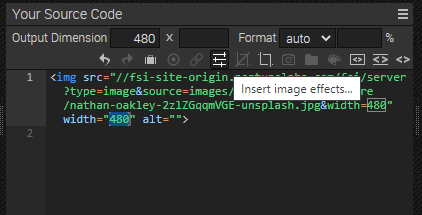
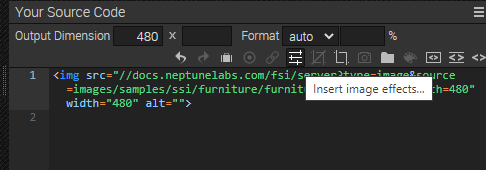
added new stock images/ changed readmes

Changed region(s): [[0.0, 0.0, 1.0, 0.6471], [0.0616, 0.6471, 0.0924, 0.7059]]

diff --git a/samples/frontpage/index.html b/samples/frontpage/index.html
@@ -25,16 +25,16 @@
 </header>
 
 <div class="position-absolute text-center mx-auto w-100 p-0">
-  <img src="{{{fsi.server}}}/{{{fsi.context}}}/server?type=image&source=images/samples/ssi/furniture/furniture-6048139.jpg&width=1903&rect=0,0.34173,0.95936,0.30668&effects=flip(horizontal)" width="1903"
-       srcset="{{{fsi.server}}}/{{{fsi.context}}}/server?type=image&source=images/samples/ssi/furniture/furniture-6048139.jpg&width=1903&rect=0,0.34173,0.95936,0.30668&effects=flip(horizontal),
-{{{fsi.server}}}/{{{fsi.context}}}/server?type=image&source=images/samples/ssi/furniture/furniture-6048139.jpg&width=3806&rect=0,0.34173,0.95936,0.30668&effects=flip(horizontal) 2x"
+  <img src="{{{fsi.server}}}/{{{fsi.context}}}/server?type=image&source=images/samples/ssi/furniture/house-6691124.jpg&width=1903&rect=0.01416,0.53388,0.75133,0.21963" width="1903"
+       srcset="{{{fsi.server}}}/{{{fsi.context}}}/server?type=image&source=images/samples/ssi/furniture/house-6691124.jpg&width=1903&rect=0.01416,0.53388,0.75133,0.21963,
+{{{fsi.server}}}/{{{fsi.context}}}/server?type=image&source=images/samples/ssi/furniture/house-6691124.jpg&width=3806&rect=0.01416,0.53388,0.75133,0.21963 2x"
        alt="">
 </div>
 <div class="row position-relative text-center w-100">
   <div class="col-md-4 col-sm-2 pb-lg-5 my-lg-5">
     <img class="sale-badge" src="{{{fsi.server}}}/{{{fsi.context}}}/static/assets/samples/ssi/sale.svg" height="300">
   </div>
-  <div class="col-md-8 col-sm-10 pb-lg-5 my-lg-5 pb-sm-1">
+  <div class="col-md-8 col-sm-10 pt-lg-5 my-lg-5 pb-sm-1">
     <h2 class="display-5 fw-normal">Black Friday</h2>
     <p class="lead fw-normal">Check out our furniture sale.</p>
     <a class="btn btn-outline-custom" href="#">SHOP NOW</a>

diff --git a/samples/plp/index.html b/samples/plp/index.html
@@ -25,10 +25,10 @@
   </nav>
 </header>
 
-<div class="row position-relative text-center">
-  <img class="img-fluid" src="{{{fsi.server}}}/{{{fsi.context}}}/server?type=image&source=images/samples/ssi/furniture/furniture-6048139.jpg&width=1903&rect=0,0.51752,1,0.16939" width="1903"
-       srcset="{{{fsi.server}}}/{{{fsi.context}}}/server?type=image&source=images/samples/ssi/furniture/furniture-6048139.jpg&width=1903&rect=0,0.51752,1,0.16939,
-{{{fsi.server}}}/{{{fsi.context}}}/server?type=image&source=images/samples/ssi/furniture/furniture-6048139.jpg&width=3806&rect=0,0.51752,1,0.16939 2x"
+<div class="position-relative text-center">
+  <img class="img-fluid" src="{{{fsi.server}}}/{{{fsi.context}}}/server?type=image&source=images/samples/ssi/furniture/tv-cabinet-6185020.jpg&width=1903&rect=0.08146,0.53855,0.85105,0.21963" width="1903"
+       srcset="{{{fsi.server}}}/{{{fsi.context}}}/server?type=image&source=images/samples/ssi/furniture/tv-cabinet-6185020.jpg&width=1903&rect=0.08146,0.53855,0.85105,0.21963,
+{{{fsi.server}}}/{{{fsi.context}}}/server?type=image&source=images/samples/ssi/furniture/tv-cabinet-6185020.jpg&width=1903&rect=0.08146,0.53855,0.85105,0.21963 2x"
        alt=""></div>
 
 <main class="content mx-auto">

diff --git a/samples/pdp/README.md b/samples/pdp/README.md
@@ -4,51 +4,58 @@ This readme describes how the product detail page sample with *Single Source Ima
 The aim of the demo is to show how you can easily integrate different sizes and formats of an image by simply changing the Image URL.
 It also shows how static assets saved on FSI Server can be embedded.
 
-# Use images on the website
+# Switching images on the website
 
-While having an image or folder selected, you can see all possible publishing ways for the specific item by visting the Publish To Web tab.
-For this example, select the preset *Simple Image*:
-
-![Config Image](readme-pdp-1.png)
-
-Simple Image publishes the image with a simple <img> tag. Requires a single high resolution image. You can set the output dimensions and format (auto automatically chooses the best format for the browser used, or you can set WEBP, JPEG, PNG or GIF) as well as add various effects to the static image.
-
-![Config Image](readme-pdp-2.png)
-
-The *Source Code* section enables you to control the look of your image or viewer by setting the dimensions and format, as well as adding effects or crop options to it.
-In this area you also can see the source code for your selected publishing option which you can edit and copy to publish the images.
-
-You can then add the images to your site via image tag:
+The images are switched by adding a simple changeImage function to the image tags:
 
 ```html
-<img id="image" class="img-fluid" src="//docs.neptunelabs.com/fsi/server?type=image&amp;source=images/samples/ssi/furniture/nathan-oakley-o4s4AfTgOvg-unsplash.jpg&amp;width=940" width="940" alt="">
+  <div class="row pb-3">
+            <div class="col-4">
+              <img class="thumbnail img-fluid" onclick="changeImage('0')" src="docs.neptunelabs.com/server?type=image&source=images/samples/ssi/furniture/home-7531464.jpg&width=150" width="150"
+                   srcset="docs.neptunelabs.com/server?type=image&source=images/samples/ssi/furniture/home-7531464.jpg&width=150,
+docs.neptunelabs.com/server?type=image&source=images/samples/ssi/furniture/home-7531464.jpg&width=300 2x"
+                   alt="">
+
+            </div>
+            <div class="col-4" >
+              <img class="thumbnail img-fluid" onclick="changeImage('1')" src="docs.neptunelabs.com/server?type=image&source=images/samples/ssi/furniture/home-7531467.jpg&width=150" width="150"
+                                            srcset="docs.neptunelabs.com/server?type=image&source=images/samples/ssi/furniture/home-7531467.jpg&width=150,
+docs.neptunelabs.com/server?type=image&source=images/samples/ssi/furniture/home-7531467.jpg&width=300 2x"
+                                            alt="">
+
+            </div>
+            <div class="col-4" >
+              <img class="thumbnail img-fluid" onclick="changeImage('2')" src="docs.neptunelabs.com/server?type=image&source=images/samples/ssi/furniture/home-7531463.jpg&width=150" width="150"
+                   srcset="docs.neptunelabs.com/server?type=image&source=images/samples/ssi/furniture/home-7531463.jpg&width=150,
+docs.neptunelabs.com/server?type=image&source=images/samples/ssi/furniture/nhome-7531463.jpg&width=300 2x"
+                   alt="">
+
+            </div>
+          </div>
 ```
-You can change the width and/or height directly in the image tag, the image will scale accordingly.
-For example, the thumbnails on the left are much smaller:
 
-```html
-<img class="thumbnail img-fluid" onclick="changeImage('0')" src="//docs.neptunelabs.com/fsi/server?type=image&amp;source=images/samples/ssi/furniture/nathan-oakley-o4s4AfTgOvg-unsplash.jpg&amp;width=150&amp;rect=0.15187,0,0.84813,1" width="150" alt="">
+In the corresponding `pdp.js` this function is set:
+
+```js
+function changeImage(buttonID) {
+  let img
+  let curImage = document.getElementById('image')
+  switch (buttonID) {
+    case '0':
+      img = 'docs.neptunelabs.com/server?type=image&source=images/samples/ssi/furniture/home-7531464.jpg&width=940'
+      break
+    case '1':
+      img = 'docs.neptunelabs.com/server?type=image&source=images/samples/ssi/furniture/home-7531467.jpg&width=940'
+      break
+    case '2':
+      img = 'docs.neptunelabs.com/server?type=image&source=images/samples/ssi/furniture/home-7531463.jpg&width=940'
+      break
+    default:
+      img = 'docs.neptunelabs.com/server?type=image&source=images/samples/ssi/furniture/home-7531464.jpg&width=940'
+  }
+  curImage.src = img
+}
 ```
-# Adding a crop effect
-
-As you can see in the last image tag above, a crop effect was used.
-
-You can do this easily in the *Publish To Web* tab. While having selected *Simple Image* as preset,
-choose the crop icon in the Source Code toolbar.
-
-![Config Image](readme-pdp-4.png)
-
-In the modal, you can add the crop area to the image via drag & drop.
-Select OK as soon as you are finished.
-
-![Config Image](readme-pdp-5.png)
-
-The URL created will look like this:
-
-
-[https://docs.neptunelabs.com/fsi/server?type=image&source=images/samples/ssi/furniture/nathan-oakley-o4s4AfTgOvg-unsplash.jpg&width=480&rect=0.15187,0,0.84813,1](https://docs.neptunelabs.comp/fsi/server?type=image&source=images/samples/ssi/furniture/nathan-oakley-o4s4AfTgOvg-unsplash.jpg&width=480&rect=0.15187,0,0.84813,1)
-
-The *&rect=* part defines the area of the cropping.
 
 ## Testing with examples from  your own server
 

diff --git a/samples/plp/README.md b/samples/plp/README.md
@@ -4,27 +4,6 @@ This readme describes how the product listing page sample with *Single Source Im
 The aim of the demo is to show how you can easily integrate different sizes and formats of an image by simply changing the Image URL.
 It also shows how static assets saved on FSI Server can be embedded.
 
-# Use images on the website
-
-While having an image or folder selected, you can see all possible publishing ways for the specific item by visting the Publish To Web tab.
-For this example, select the preset *Simple Image*:
-
-![Config Image](readme-plp-1.png)
-
-Simple Image publishes the image with a simple <img> tag. Requires a single high resolution image. You can set the output dimensions and format (auto automatically chooses the best format for the browser used, or you can set WEBP, JPEG, PNG or GIF) as well as add various effects to the static image.
-
-![Config Image](readme-plp-2.png)
-
-The *Source Code* section enables you to control the look of your image or viewer by setting the dimensions and format, as well as adding effects or crop options to it.
-In this area you also can see the source code for your selected publishing option which you can edit and copy to publish the images.
-
-You can then add the images to your site via image tag:
-
-```html
- <img class="card-img-top img-fluid" src="//docs.neptunelabs.com/fsi/server?type=image&source=images/samples/ssi/furniture/nathan-oakley-boFO5uIUKUU-unsplash.jpg&width=283" alt="" width="283">
-```
-You can change the width and/or height directly in the image tag, the image will scale accordingly.
-
 # Adding a crop effect
 
 As you can see in the last image tag above, a crop effect was used.
@@ -32,44 +11,19 @@ As you can see in the last image tag above, a crop effect was used.
 You can do this easily in the *Publish To Web* tab. While having selected *Simple Image* as preset,
 choose the crop icon in the Source Code toolbar.
 
-![Config Image](readme-plp-3.png)
+![Config Image](../plp/readme-pdp-4.png)
 
 In the modal, you can add the crop area to the image via drag & drop.
 Select OK as soon as you are finished.
 
-![Config Image](readme-plp-4.png)
+![Config Image](../plp/readme-pdp-5.png)
 
 The URL created will look like this:
 
 
-[https://docs.neptunelabs.com/fsi/server?type=image&source=images/samples/ssi/furniture/nathan-oakley-2zlZGqqmVGE-unsplash.jpg&width=1879&rect=0,0.41576,1,0.17255](https://docs.neptunelabs.comp/fsi/server?type=image&source=images/samples/ssi/furniture/nathan-oakley-2zlZGqqmVGE-unsplash.jpg&width=1879&rect=0,0.41576,1,0.17255)
+[https://docs.neptunelabs.com/fsi/server?type=image&source=images/samples/ssi/furniture/nathan-oakley-o4s4AfTgOvg-unsplash.jpg&width=480&rect=0.15187,0,0.84813,1](https://docs.neptunelabs.comp/fsi/server?type=image&source=images/samples/ssi/furniture/nathan-oakley-o4s4AfTgOvg-unsplash.jpg&width=480&rect=0.15187,0,0.84813,1)
 
 The *&rect=* part defines the area of the cropping.
-
-# Adding overlays (Sale icon)
-
-It's also possible to add overlays to your images, such as the sales icon which is placed
-over some of the images in the *listing section* section.
-
-![Config Image](readme-plp-5.png)
-
-You can do this easily in the *Publish To Web* tab. While having selected *Simple Image* as preset,
-choose the effects icon in the Source Code toolbar.
-
-![Config Image](readme-plp-6.png)
-
-In the modal, add the *Overlays* effect to the image via drag & drop.
-Choose the image path where your overlay is stored on FSI Server. You can then change the opacity, position and offset and
-see the changes directly in the preview window.
-Select OK as soon as you are finished.
-
-![Config Image](readme-plp-7.png)
-
-The URL created will look like this:
-
-
-[https://docs.neptunelabs.com/fsi/server?type=image&source=images/samples/ssi/furniture/nathan-oakley-CYfb0qyQ6WM-unsplash.jpg&width=480&renderer=overlay&overlays=images/samples/ssi/overlays/sale-small.png(63,TL,0,0](https://docs.neptunelabs.com/fsi/server?type=image&source=images/samples/ssi/furniture/nathan-oakley-CYfb0qyQ6WM-unsplash.jpg&width=480&renderer=overlay&overlays=images/samples/ssi/overlays/sale-small.png(63,TL,0,0))
-
 
 ## Testing with examples from  your own server
 
